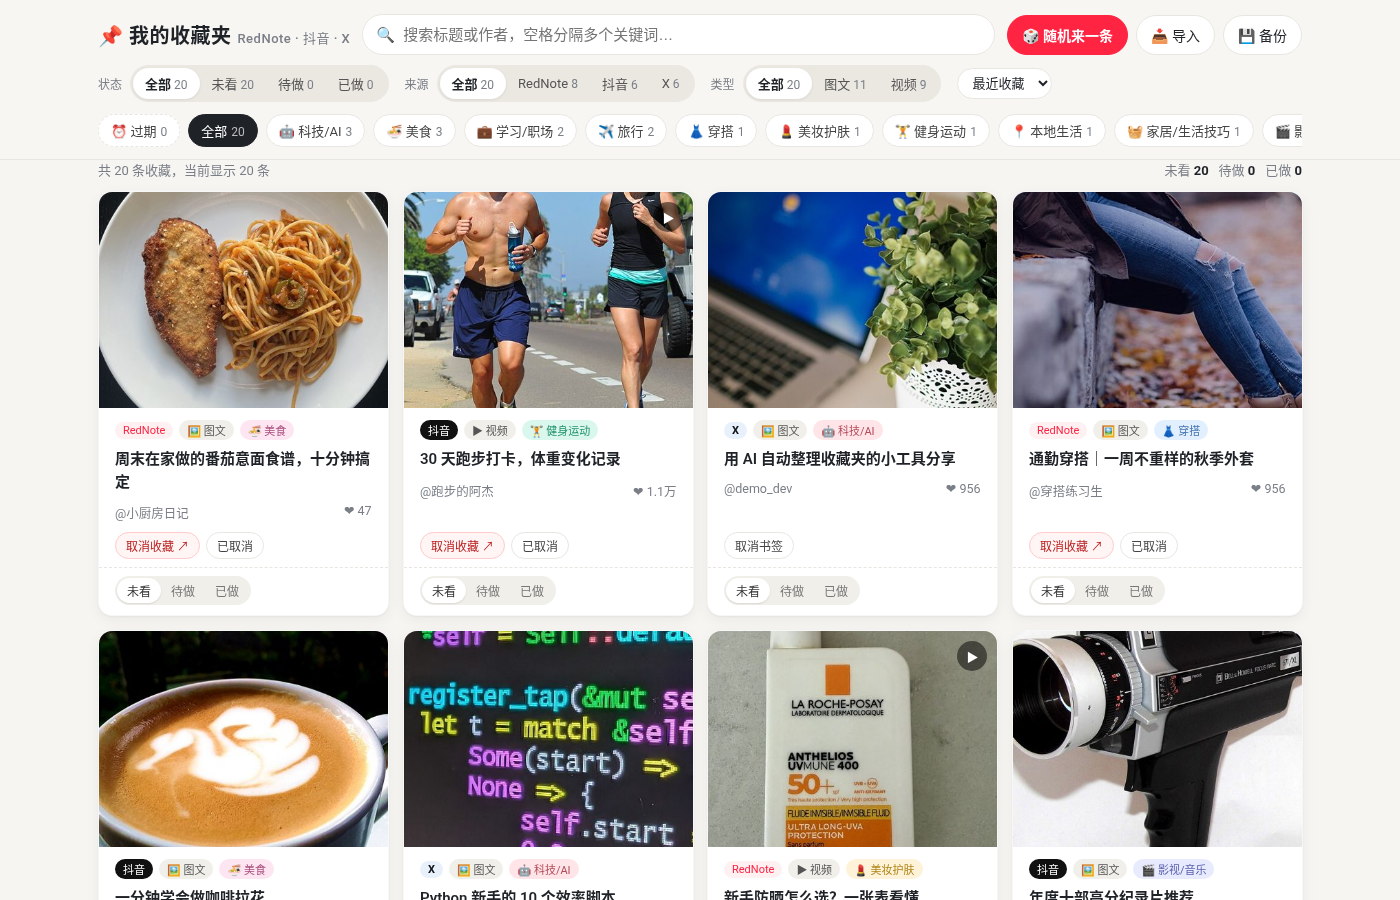
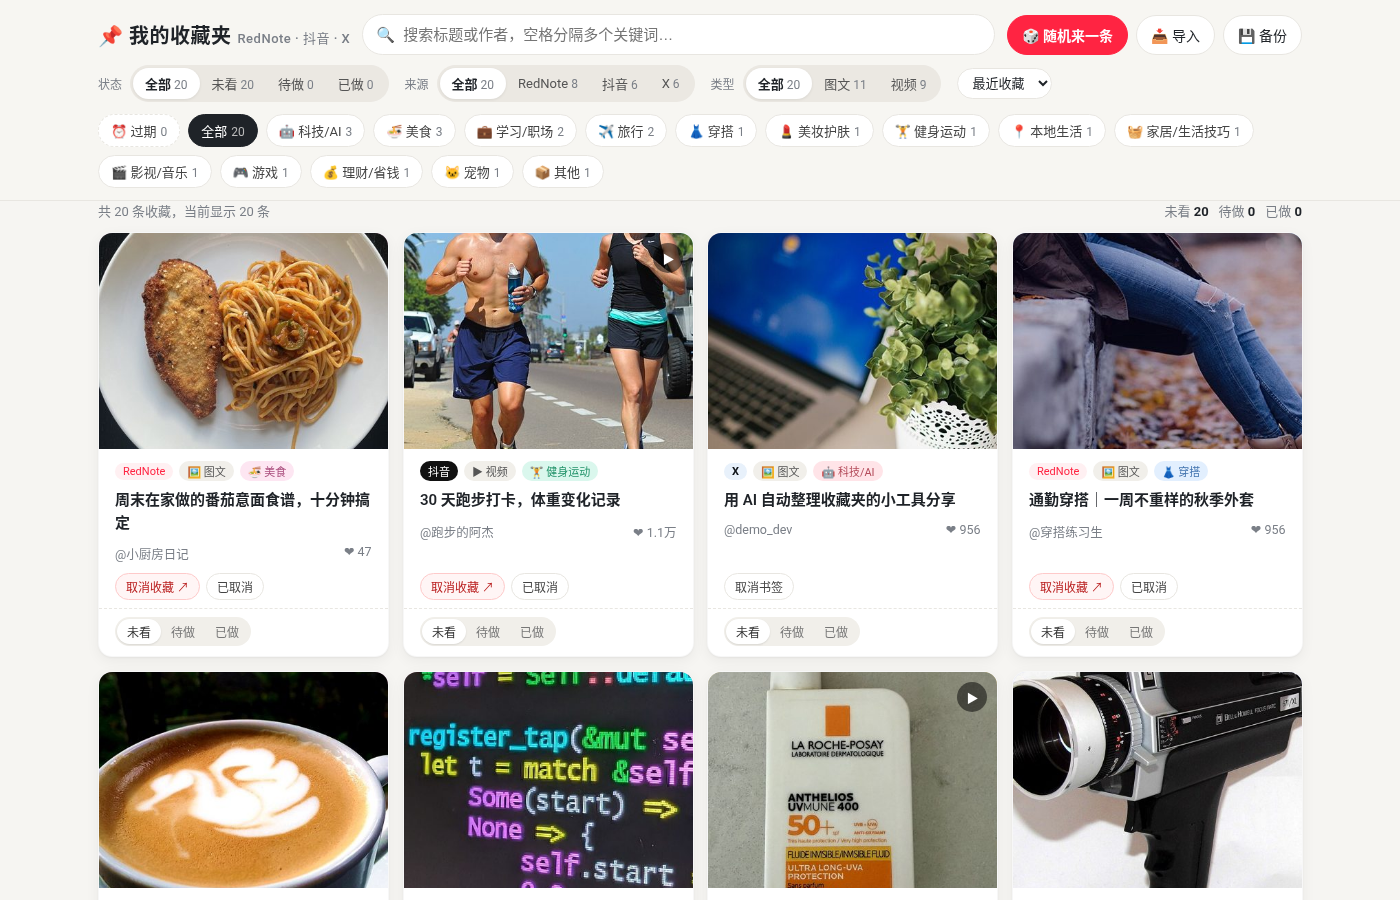
v1.3.2: 分类标签栏改为自动换行，避免分类被截断

diff --git a/template.html b/template.html
@@ -39,8 +39,7 @@ header{position:sticky;top:0;z-index:20;background:rgba(246,245,242,.92);backdro
 .seg button .n{color:var(--muted);font-weight:400;margin-left:3px;font-size:12px}
 .flabel{font-size:12px;color:var(--muted);margin-right:-8px}
 select.sort{border:1px solid var(--line);background:#fff;border-radius:999px;padding:6px 10px;font-size:13px;color:var(--ink)}
-.chips{display:flex;gap:8px;overflow-x:auto;padding:2px 0 12px;scrollbar-width:none}
-.chips::-webkit-scrollbar{display:none}
+.chips{display:flex;flex-wrap:wrap;gap:8px;padding:2px 0 12px}
 .chip{flex:none;border:1px solid var(--line);background:#fff;border-radius:999px;padding:6px 12px;font-size:13px;color:#444;transition:.15s}
 .chip .n{color:var(--muted);margin-left:4px;font-size:12px}
 .chip.on{background:var(--ink);color:#fff;border-color:var(--ink)}
